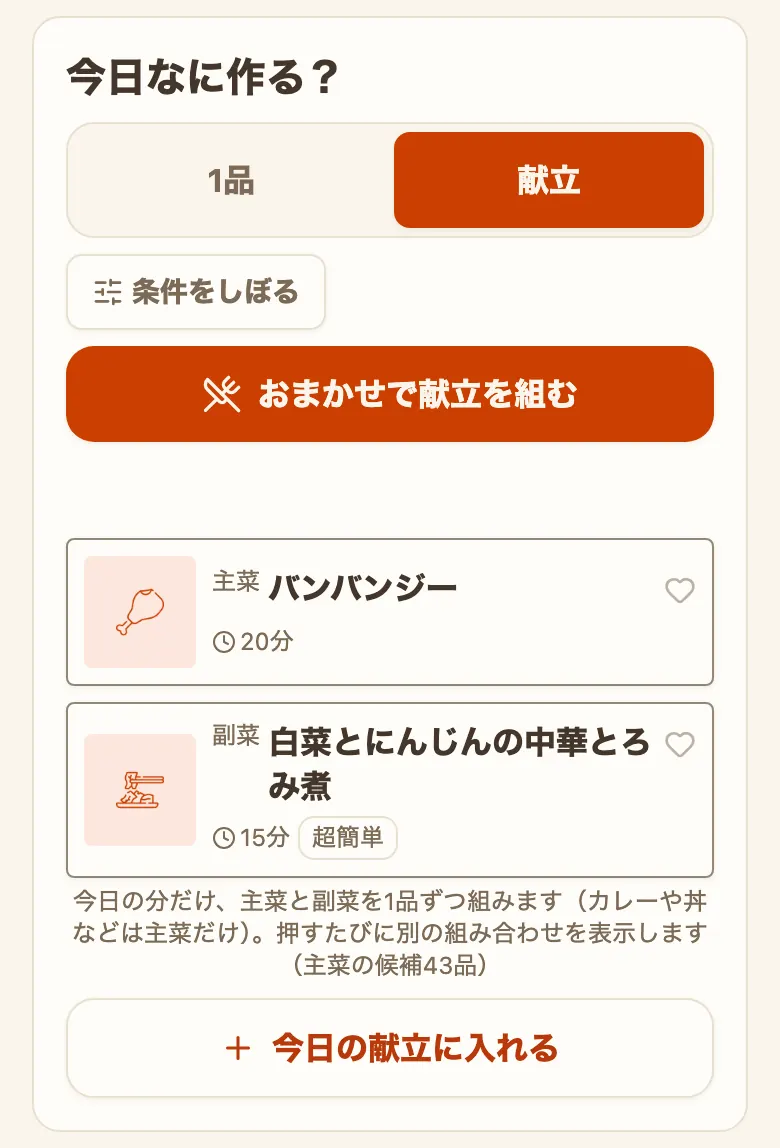
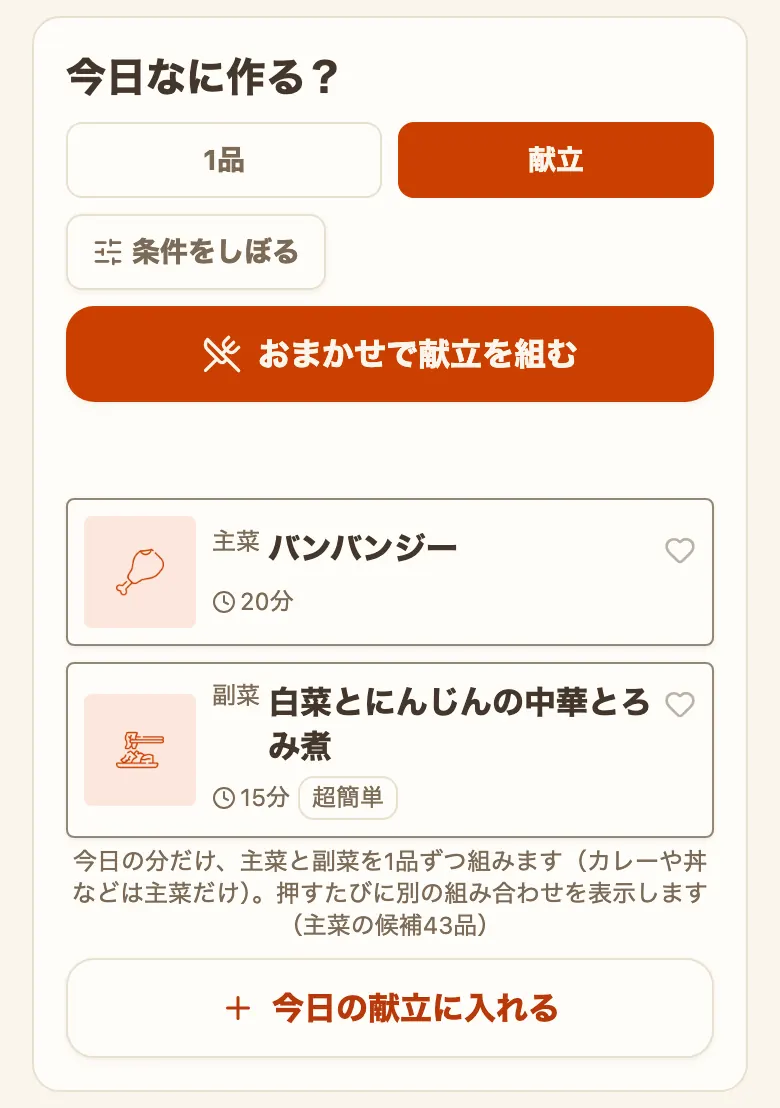
統合: 便NJ(棚見出し統一・スイッチ控えめ化・ルーレット演出240ms)+day-suggest撮り直し

diff --git a/public/about/manual.html b/public/about/manual.html
@@ -813,7 +813,7 @@
     <p>料理名を押せばレシピを確かめられます。気になるレシピが候補に表示されるまで、何度でも気軽に引き直しできます。前回どちらを使ったかは覚えていて、次も同じ側から始まります。</p>
 
     <figure class="shot" style="--w:390px">
-      <img src="/about/img/manual/day-suggest.webp" width="780" height="1148" loading="lazy" decoding="async" alt="献立の「日」の「今日なに作る？」。見出しの下に「1品」「献立」の切り替えがあり、「献立」が選ばれている。その下に「条件をしぼる」のボタン、「おまかせで献立を組む」のボタン、提案された主菜と副菜のカード、組み方の説明と主菜の候補の品数、「今日の献立に入れる」のボタンが縦に並んでいる">
+      <img src="/about/img/manual/day-suggest.webp" width="780" height="1108" loading="lazy" decoding="async" alt="献立の「日」の「今日なに作る？」。見出しの下に「1品」「献立」の切り替えがあり、「献立」が選ばれている。その下に「条件をしぼる」のボタン、「おまかせで献立を組む」のボタン、提案された主菜と副菜のカード、組み方の説明と主菜の候補の品数、「今日の献立に入れる」のボタンが縦に並んでいる">
       <figcaption>「今日なに作る？」で「献立」を選んだところ。主菜と副菜が1品ずつ並びます</figcaption>
     </figure>
 
